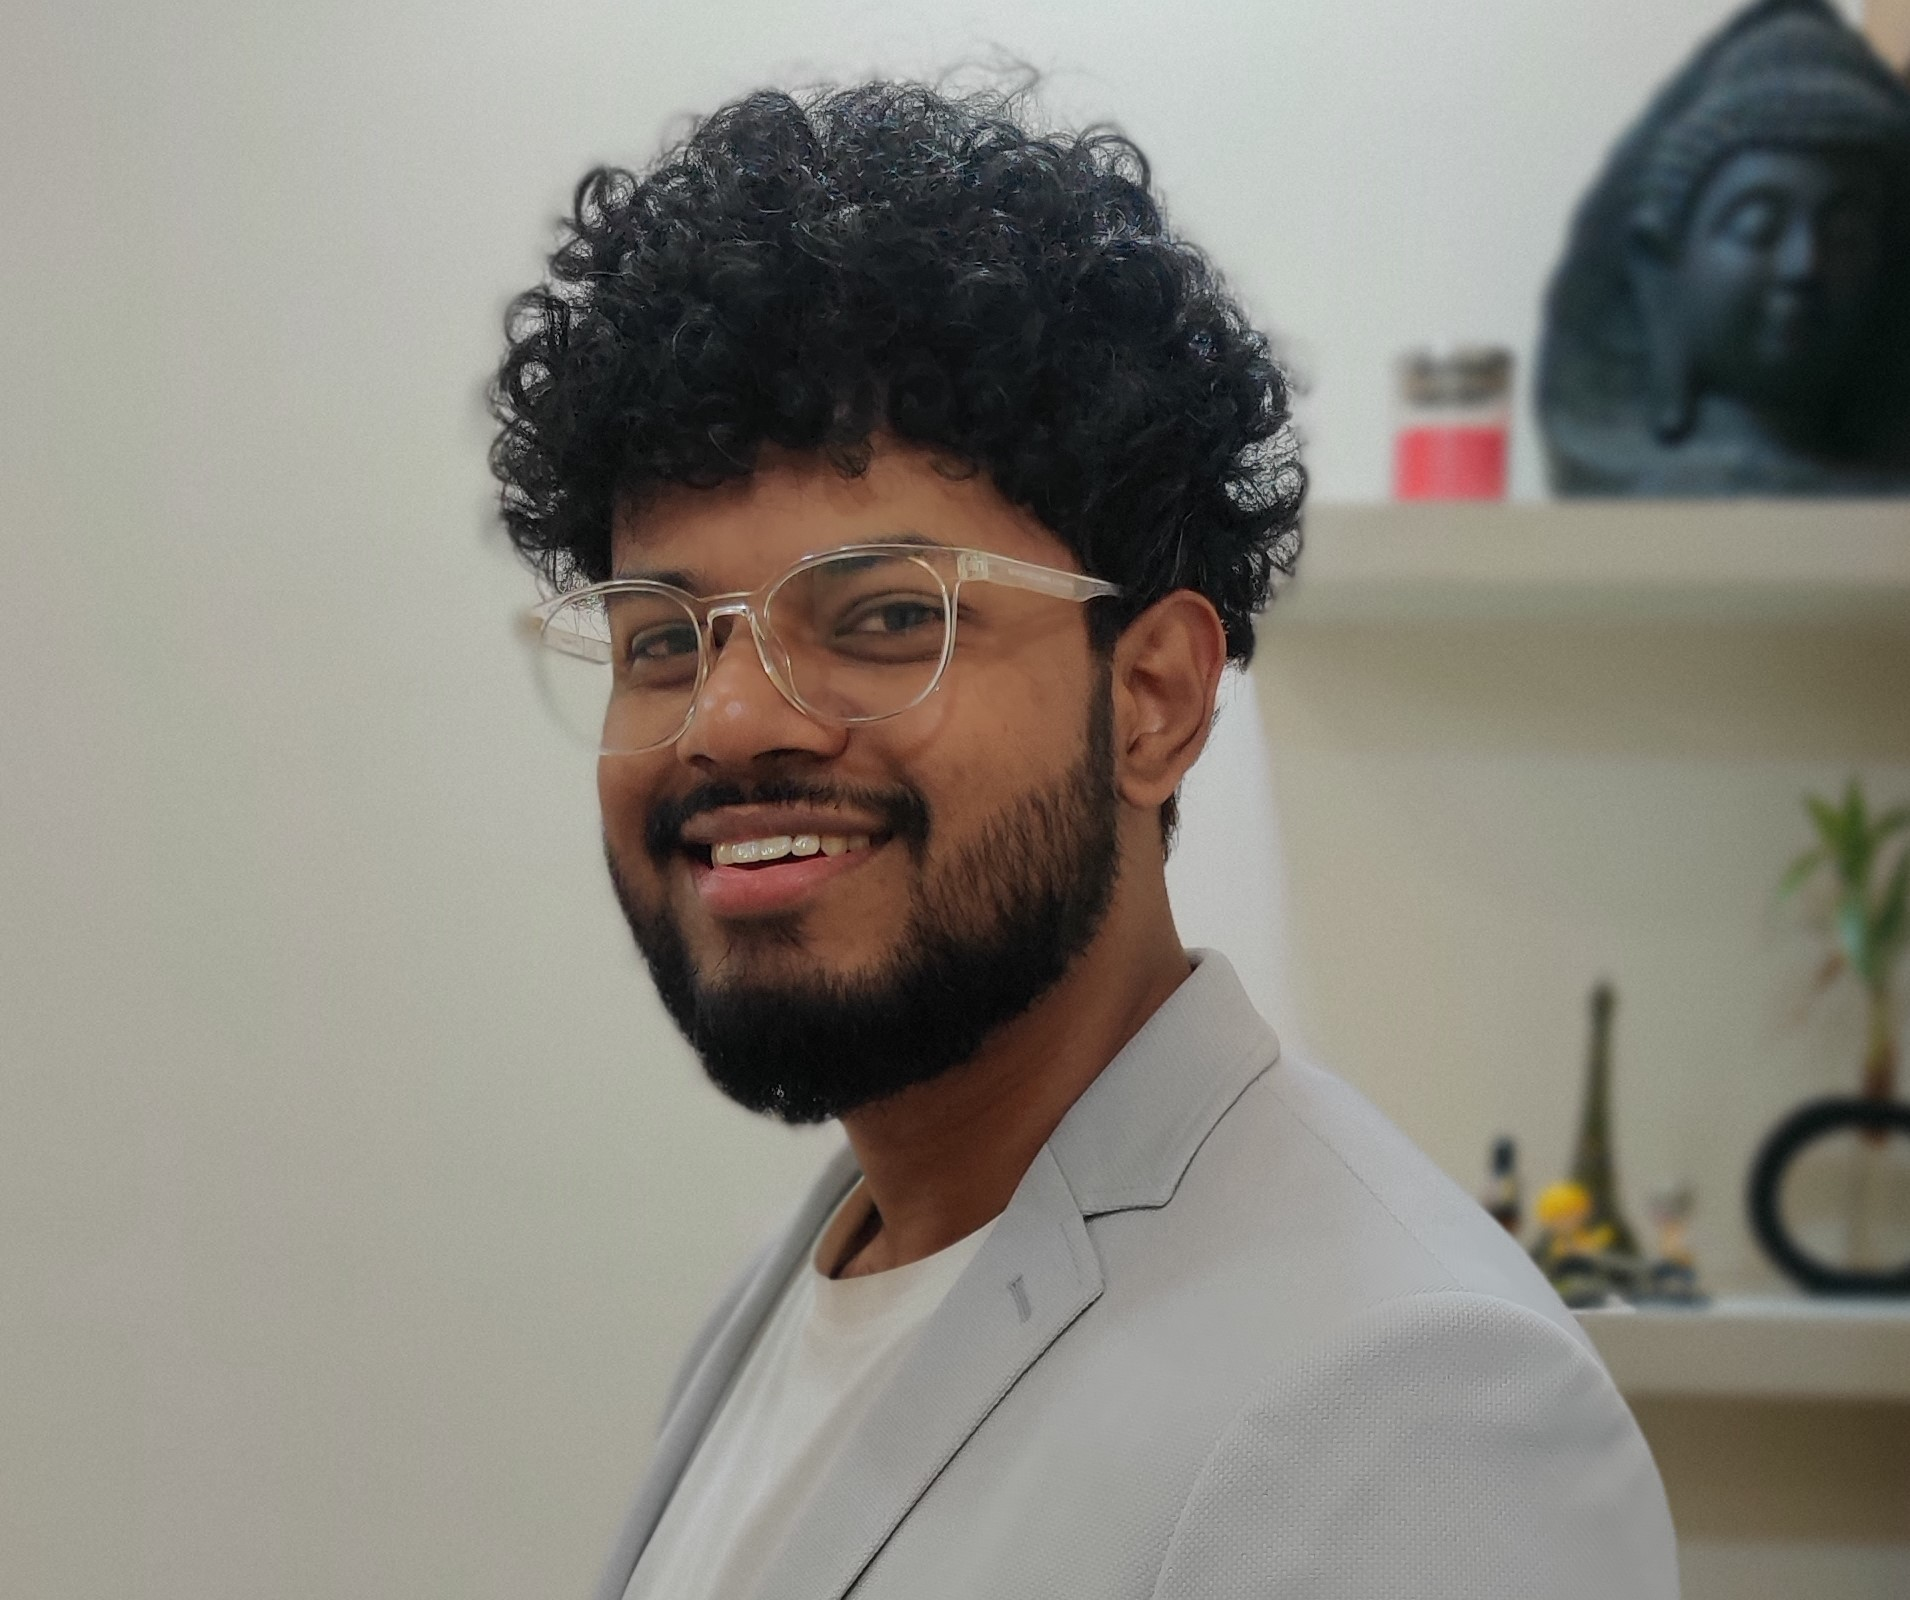
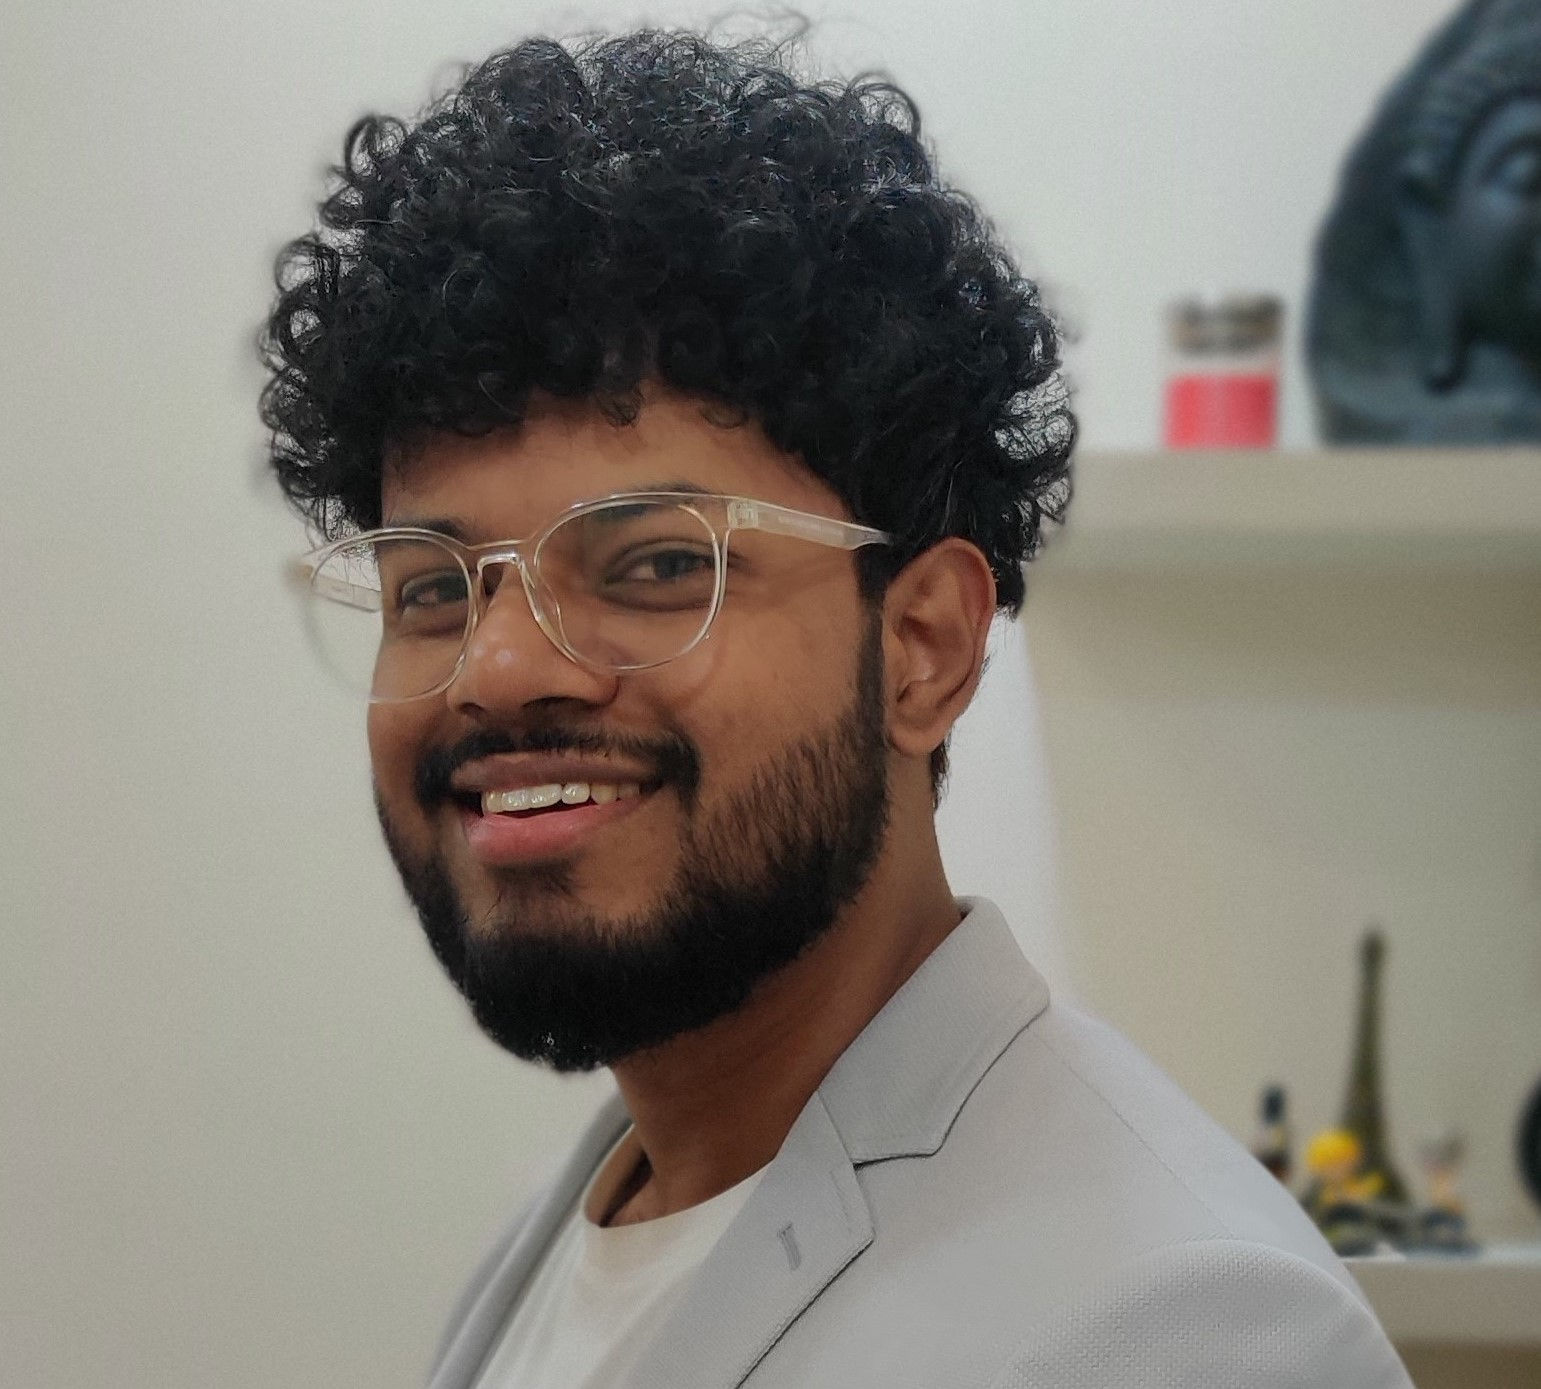
add new profile pic

diff --git a/src/components/About.js b/src/components/About.js
@@ -1,4 +1,4 @@
-import aboutImg from "../assets/img/self.JPG";
+import aboutImg from "../assets/img/self.jpg";
 import expImg from "../assets/img/experience.png";
 import eduImg from "../assets/img/education.png";
 
